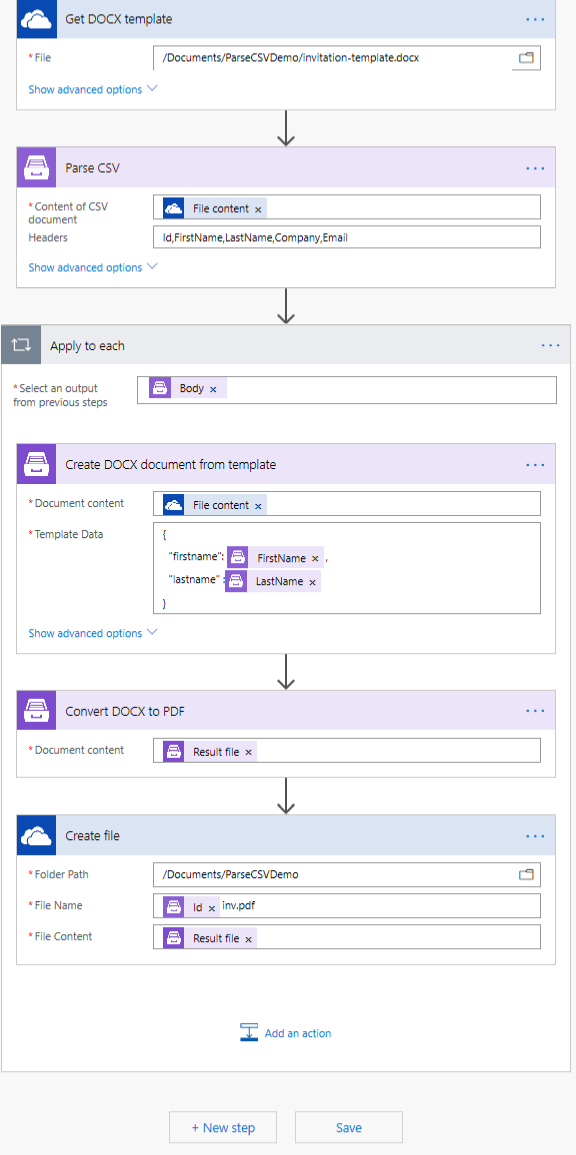
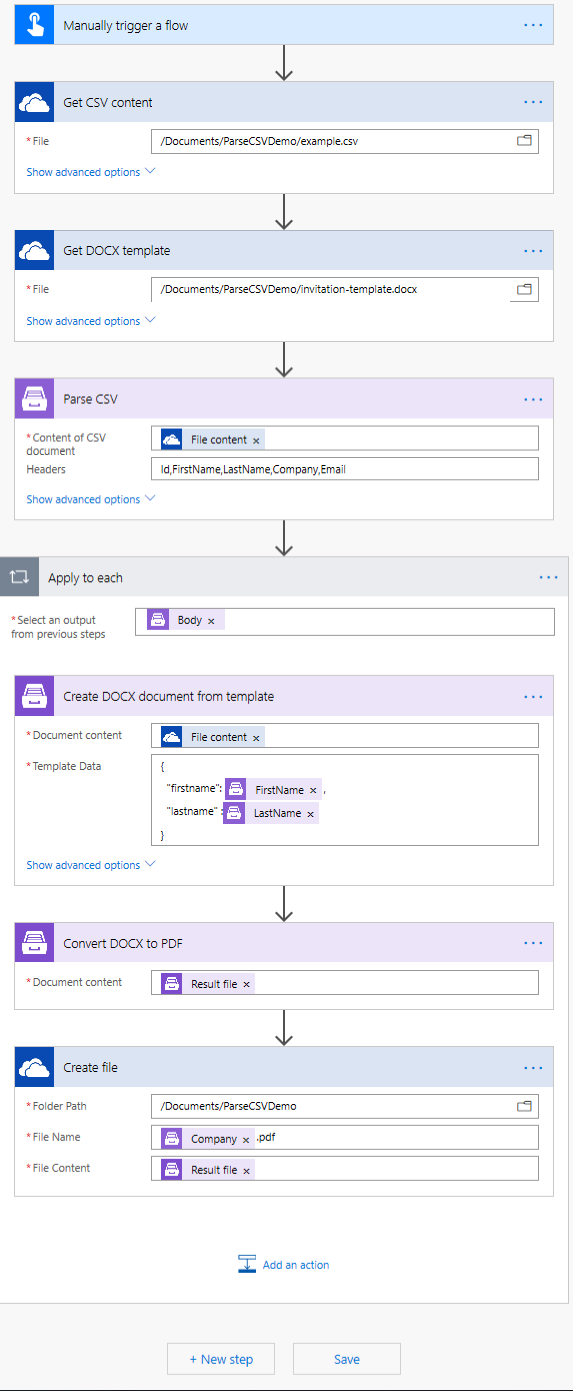
corrected Parse CSV how-to

diff --git a/source/flow/how-tos/documents/read-a-CSV-file-and-bulk-generate-documents.rst b/source/flow/how-tos/documents/read-a-CSV-file-and-bulk-generate-documents.rst
@@ -1,10 +1,11 @@
 How to read a CSV file in Microsoft Flow and bulk generate documents
 =============================================================
 
-This article demonstrates how to use **Parse CSV** action and bulk generate documents.
+This article demonstrates how to read CSV files in Microsoft Flow using **Parse CSV** action from Plumsail Documents connector. 
+We will use results from thisaction to bulk generate documents.
 
 Let's say a company has a CSV file with customers. They want to bulk generate invitations 
-to a conference for all the customers and then print them and send them using postal service.
+to a conference for all the customers and then print them and send using postal service.
 
 In this example, we will read a CSV file and use the available headers to fill up the invitations.
 The invitation will be a result file of **Create DOC document from template** action. 
@@ -24,6 +25,12 @@ Here are just a few of them:
 - File System
 
 You can store your files anywhere. In this example, we will store our source PDF file in OneDrive folder, but you can get data from any other sources. 
+These are links to download the demo files
+
+- `CSV file <https://plumsail.com/docs/documents/v1.x/_static/files/document-generation/demos/example.csv>`_.
+- `DOCX template <https://plumsail.com/docs/documents/v1.x/_static/files/document-generation/demos/invitation-template.docx>`_.
+
+
 
 This is how our flow looks:
 
@@ -55,7 +62,8 @@ This is an action from `Plumsail Documents connector <https://plumsail.com/docum
 
 Put CSV file content from the output of the previous action. 
 In the **Headers** field, specify the CSV file headers, then you'll be able to select the headers in the dynamic content window.
-In our example, we're going to use the customer first name, last name and the ID to name the invitations:
+In our example, we're going to use the customer first name, last name and the company name.
+You can find more detailed information about Parse CSV action `here <https://plumsail.com/docs/documents/v1.x/flow/actions/document-processing.html#parse-csv>`_.
 
 .. image:: ../../../_static/img/flow/how-tos/parse-csv-action.png
    :alt: Parse CSV action
@@ -63,9 +71,10 @@ In our example, we're going to use the customer first name, last name and the ID
 .. image:: ../../../_static/img/flow/how-tos/parse-csv-dynamic-content.png
    :alt: Parse CSV dynamic content
 
-On the next steps we use Plumsail action *Create DOCX document from template*. 
-We select the dynamic content from *Parse CSV* and add it to the JSON.
-And finally we convert the resulting DOCX file to PDF and save it to the OneDrive folder. We use ID header to name each invitation.
+On the next steps we use the action *Create DOCX document from template*.
+Template Data is an object, that will be applied to our DOCX template and in our case, we apply just two columns from our CSV to the template, “FirstName” and “LastName”.
+You can read more about creating documents from templates `here <https://plumsail.com/docs/documents/v1.x/flow/actions/document-processing.html#create-docx-document-from-template>`_.
+After creating a DOCX invitation we convert it to PDF using *company name* item and save it to the OneDrive folder. 
 
 .. image:: ../../../_static/img/flow/how-tos/create-invitation.png
    :alt: Create docx, convert and save
